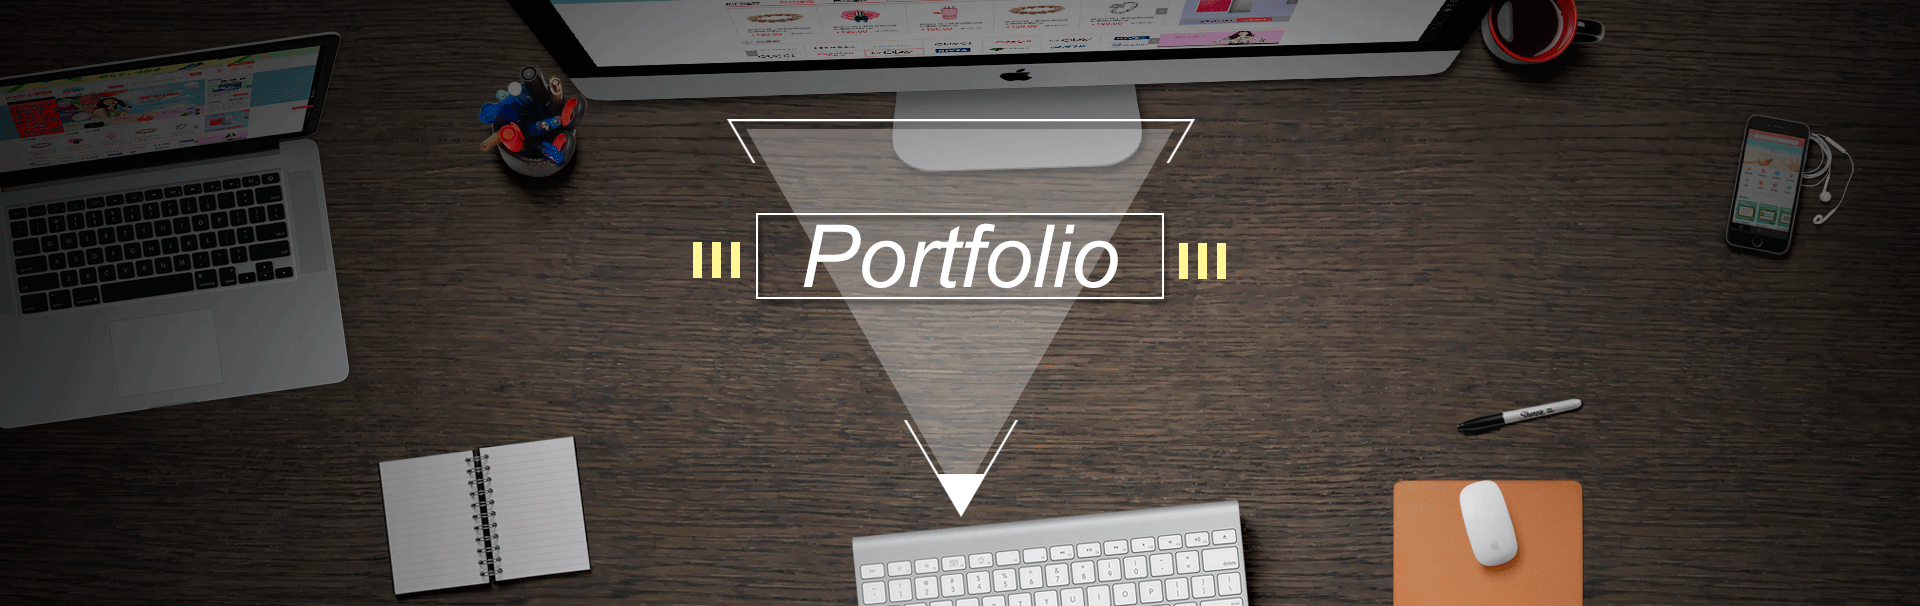
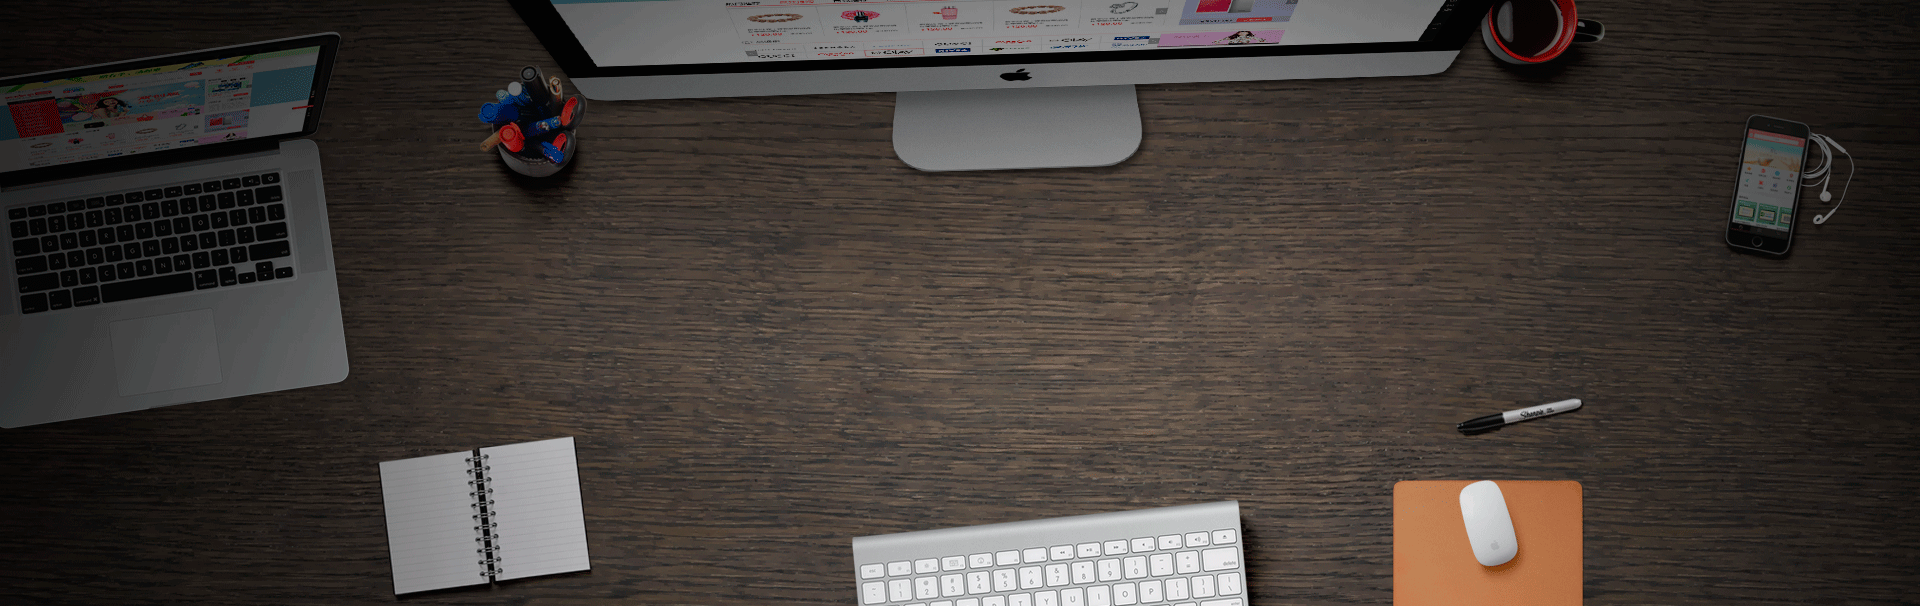
portfolio

Changed region(s): [[0.3438, 0.1782, 0.6562, 0.8317], [0.6562, 0.0, 0.6875, 0.0297], [0.0938, 0.1782, 0.125, 0.2079]]

diff --git a/main.css b/main.css
@@ -10,21 +10,158 @@
     background-position: center center;
     background-repeat: no-repeat;
     background-attachment: fixed;
+    display: -webkit-box;
+    display: -ms-flexbox;
+    display: flex;
+    -webkit-box-orient: vertical;
+    -webkit-box-direction: normal;
+        -ms-flex-direction: column;
+            flex-direction: column;
+    -webkit-box-pack: justify;
+        -ms-flex-pack: justify;
+            justify-content: space-between;
 }
-.bgportfolio-wrapper a {
-    display: block;
-    border: 4px solid #fdf7fb;
-    position: relative;
+h1{
+    font-size: 48px;
+    color: #0f0f0f;
+    margin: 0;
 }
-.bgportfolio-wrapper img {
-    width: 100%
-}
-.bgportfolio-wrapper .item div{
-    position: absolute;
-    color: #fdf7fb;
+.title{
+    width: 100%;
     text-align: center;
-    bottom: 0;
-    left: 0;
-    right: 0;
-    background: rgba(24, 25, 26, 0.6);
+    background: rgba(240, 240, 240, 0.65);
+}
+.author{
+    background: rgba(15, 15, 15, 0.65);
+    text-align: center;
+    color: #fafafa;
+}
+#carousel {
+    -webkit-perspective: 1200px;
+            perspective: 1200px;  
+    font-size:0; 
+    overflow: hidden;
+    position: relative;
+    padding: 20px 0;
+  }
+  #spinner { 
+    -webkit-transform-style: preserve-3d; 
+            transform-style: preserve-3d; 
+    height: 360px; 
+    -webkit-transform-origin: 50% 50% -500px; 
+        -ms-transform-origin: 50% 50% -500px; 
+            transform-origin: 50% 50% -500px; 
+    -webkit-transition: 2s; 
+    -o-transition: 2s; 
+    transition: 2s;
+    display: -webkit-box;
+    display: -ms-flexbox;
+    display: flex;
+    -webkit-box-pack: center;
+        -ms-flex-pack: center;
+            justify-content: center;
+  } 
+  #spinner a { 
+    position: absolute;
+    -webkit-transform-origin: 50% 50% -500px;
+        -ms-transform-origin: 50% 50% -500px;
+            transform-origin: 50% 50% -500px;
+    outline:1px solid transparent;
+    border: 5px solid #fafafa;
+  }
+  #spinner span{
+      display: block;
+  }
+  #spinner span::before{
+      content: "";
+      width: 100%;
+      height: 100%;
+      position: absolute;
+      top: 0;
+      left: 0%;
+      z-index: 1;
+      background: rgba(74, 55, 83, 0.90);
+      opacity: 0;
+  }
+  #spinner a span::after{
+      content: "View";
+      width: 100%;
+      top: 50%;
+      left: 0;
+      margin-top: -24px;
+      text-align: center;
+      font-size: 48px;
+      line-height: 48px;
+      font-weight: 700;
+      color: #fafafa;
+      position: absolute;
+      z-index: 2;
+      opacity: 0;    
+  }
+  #spinner a:hover span::before{
+    opacity: 1;
+    -webkit-animation: bg 0.5s linear;
+            animation: bg 0.5s linear;
+  }
+  #spinner a:hover span::after{
+    opacity: 1;
+    -webkit-transition: 1s;
+    -o-transition: 1s;
+    transition: 1s;
+  }
+  @-webkit-keyframes bg {
+    0% {
+        width: 0%;
+        left: 50%;
+    }
+    
+    100% {
+      left:0%;
+      width:100%;
+    }
+  }
+  @keyframes bg {
+    0% {
+        width: 0%;
+        left: 50%;
+    }
+    
+    100% {
+      left:0%;
+      width:100%;
+    }
+  }
+
+  #spinner a img{
+      max-width: 100%;
+  }
+  #spinner a:nth-child(1) { -webkit-transform:rotateY(0deg); transform:rotateY(0deg); }
+  #spinner a:nth-child(2) { -webkit-transform: rotateY(-90deg); transform: rotateY(-90deg); }
+  #spinner a:nth-child(3) { -webkit-transform: rotateY(-180deg); transform: rotateY(-180deg); }
+  #spinner a:nth-child(4) { -webkit-transform: rotateY(-270deg); transform: rotateY(-270deg); }
+#carousel span { 
+    color: #fafafa;
+    opacity:0.9;
+    text-decoration: none; 
+    font-size: 42px; 
+    font-weight: 700;
+    line-height: 54px;
+    -webkit-transition: 0.6s color;
+    -o-transition: 0.6s color;
+    transition: 0.6s color;}
+#carousel span:hover { color: #888; cursor: pointer; }
+.btn-prev, .btn-next{
+    width: 54px;
+    height: 54px;
+    background: rgba(15, 15, 15, 0.65);
+    border-radius: 50%;
+    text-align: center;
+}
+.btn-prev{
+    float: left;
+    margin-left: 15%;
+}
+.btn-next{
+    float: right;
+    margin-right: 15%;
 }

diff --git a/index.html b/index.html
@@ -5,13 +5,12 @@
     <meta name="viewport" content="width=device-width, initial-scale=1.0">
     <meta http-equiv="X-UA-Compatible" content="ie=edge">
     <meta name="viewport" content="width=device-width, initial-scale=1, shrink-to-fit=no">
-    <link rel="stylesheet" href="https://stackpath.bootstrapcdn.com/bootstrap/4.1.3/css/bootstrap.min.css" integrity="sha384-MCw98/SFnGE8fJT3GXwEOngsV7Zt27NXFoaoApmYm81iuXoPkFOJwJ8ERdknLPMO" crossorigin="anonymous">
     <link rel="stylesheet" href="main.css">
     <title>Portfolio</title>
 </head>
 <body>
 <div class="bgportfolio-wrapper">
-    <div class="container">
+    <!--<div class="container">
         <div class="row justify-content-between">
             <div class="col-4 item">
                 <a href="#">
@@ -25,8 +24,27 @@
                     <div><h2>Dreamy</h2></div>   
                 </a>
             </div>
-        </div>
+        </div>-->
+<div class="title"><h1>Portfolio</h1></div>    
+<div id="carousel">
+    <div id="spinner">
+        <a class="effect" href=""><img src="img/creative.png" alt="img04"/><span></span></a>
+        <a class="effect" href=""><img src="img/host.png" alt="img04"/><span></span></a> 
+        <a class="effect" href=""><img src="img/topbuild.png" alt="img04"/><span></span></a> 
+        <a class="effect" href=""><img src="img/creative.png" alt="img04"/><span></span></a> 
     </div>
+    <div class="btn-prev"><span onclick="galleryspin('-')" class="controls" id="previous">&lt;</span></div>
+    <div class="btn-next"><span onclick="galleryspin('')" class="controls" id="next">&gt;</span></div>
 </div>
+<div class="author">Ihor Senko</div>
+    </div>
+<script>
+var angle = 0;
+function galleryspin(sign) { 
+spinner = document.querySelector("#spinner");
+if (!sign) { angle = angle + 90; } else { angle = angle - 90; }
+spinner.setAttribute("style","-webkit-transform: rotateY("+ angle +"deg); -moz-transform: rotateY("+ angle +"deg); transform: rotateY("+ angle +"deg);");
+}
+</script>
 </body>
 </html>
